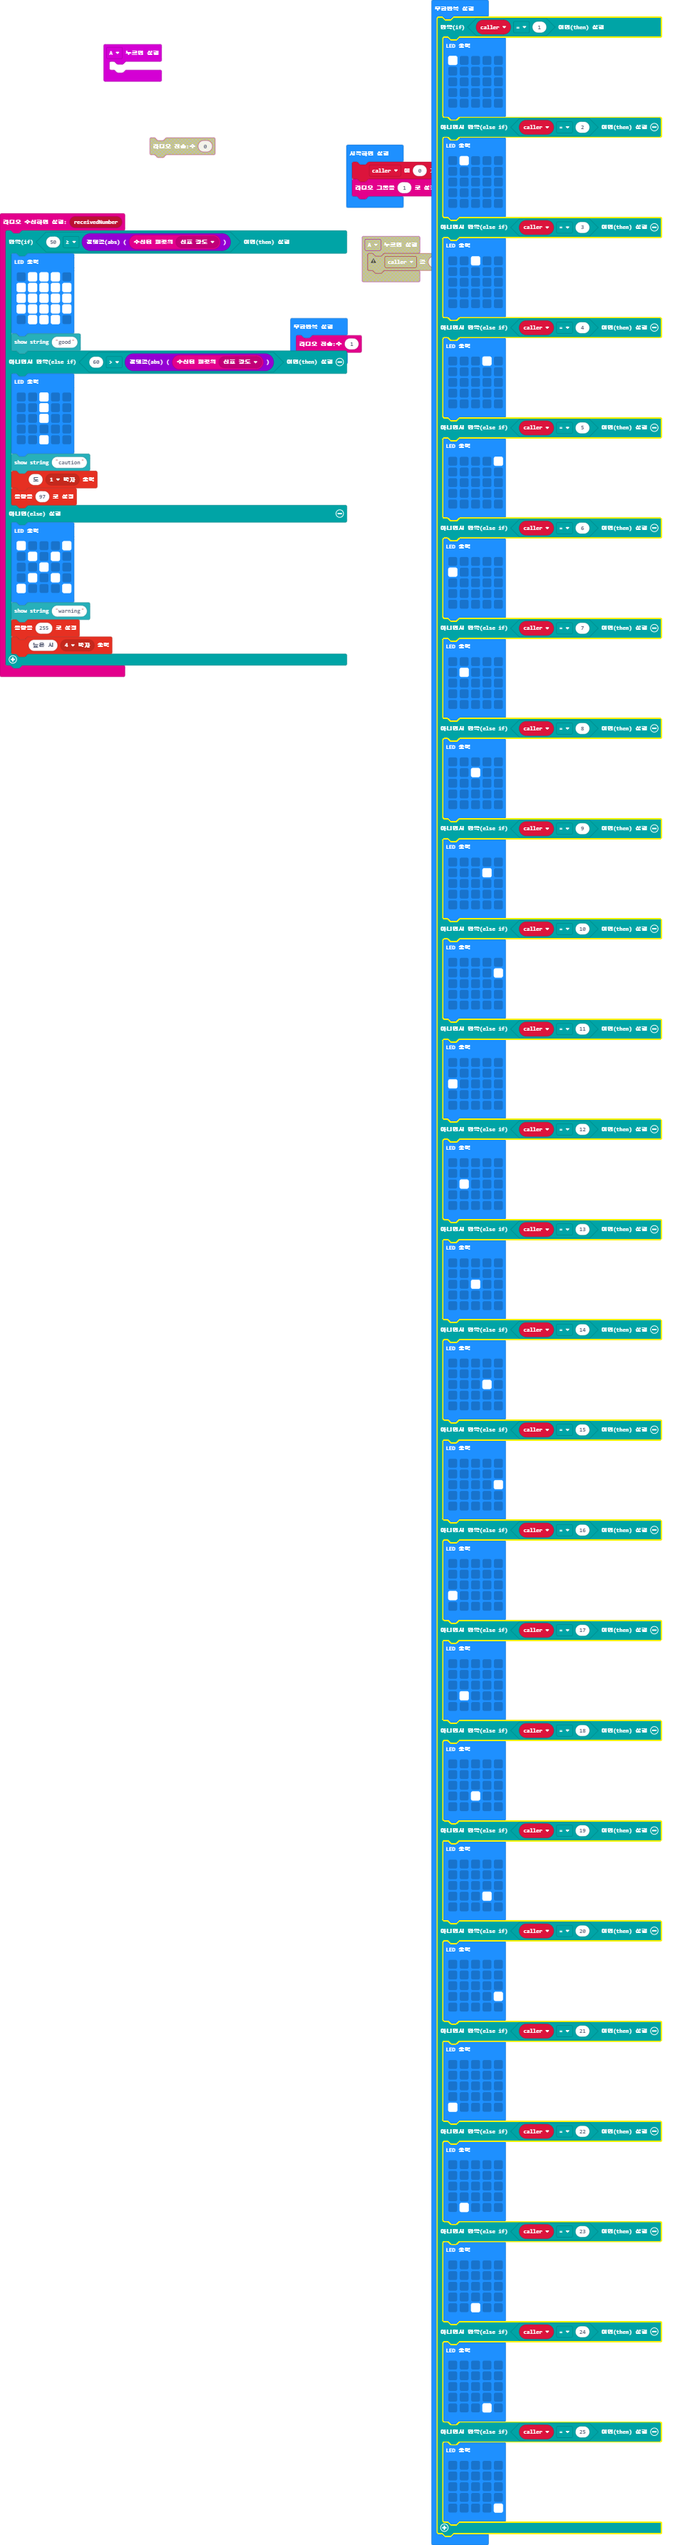
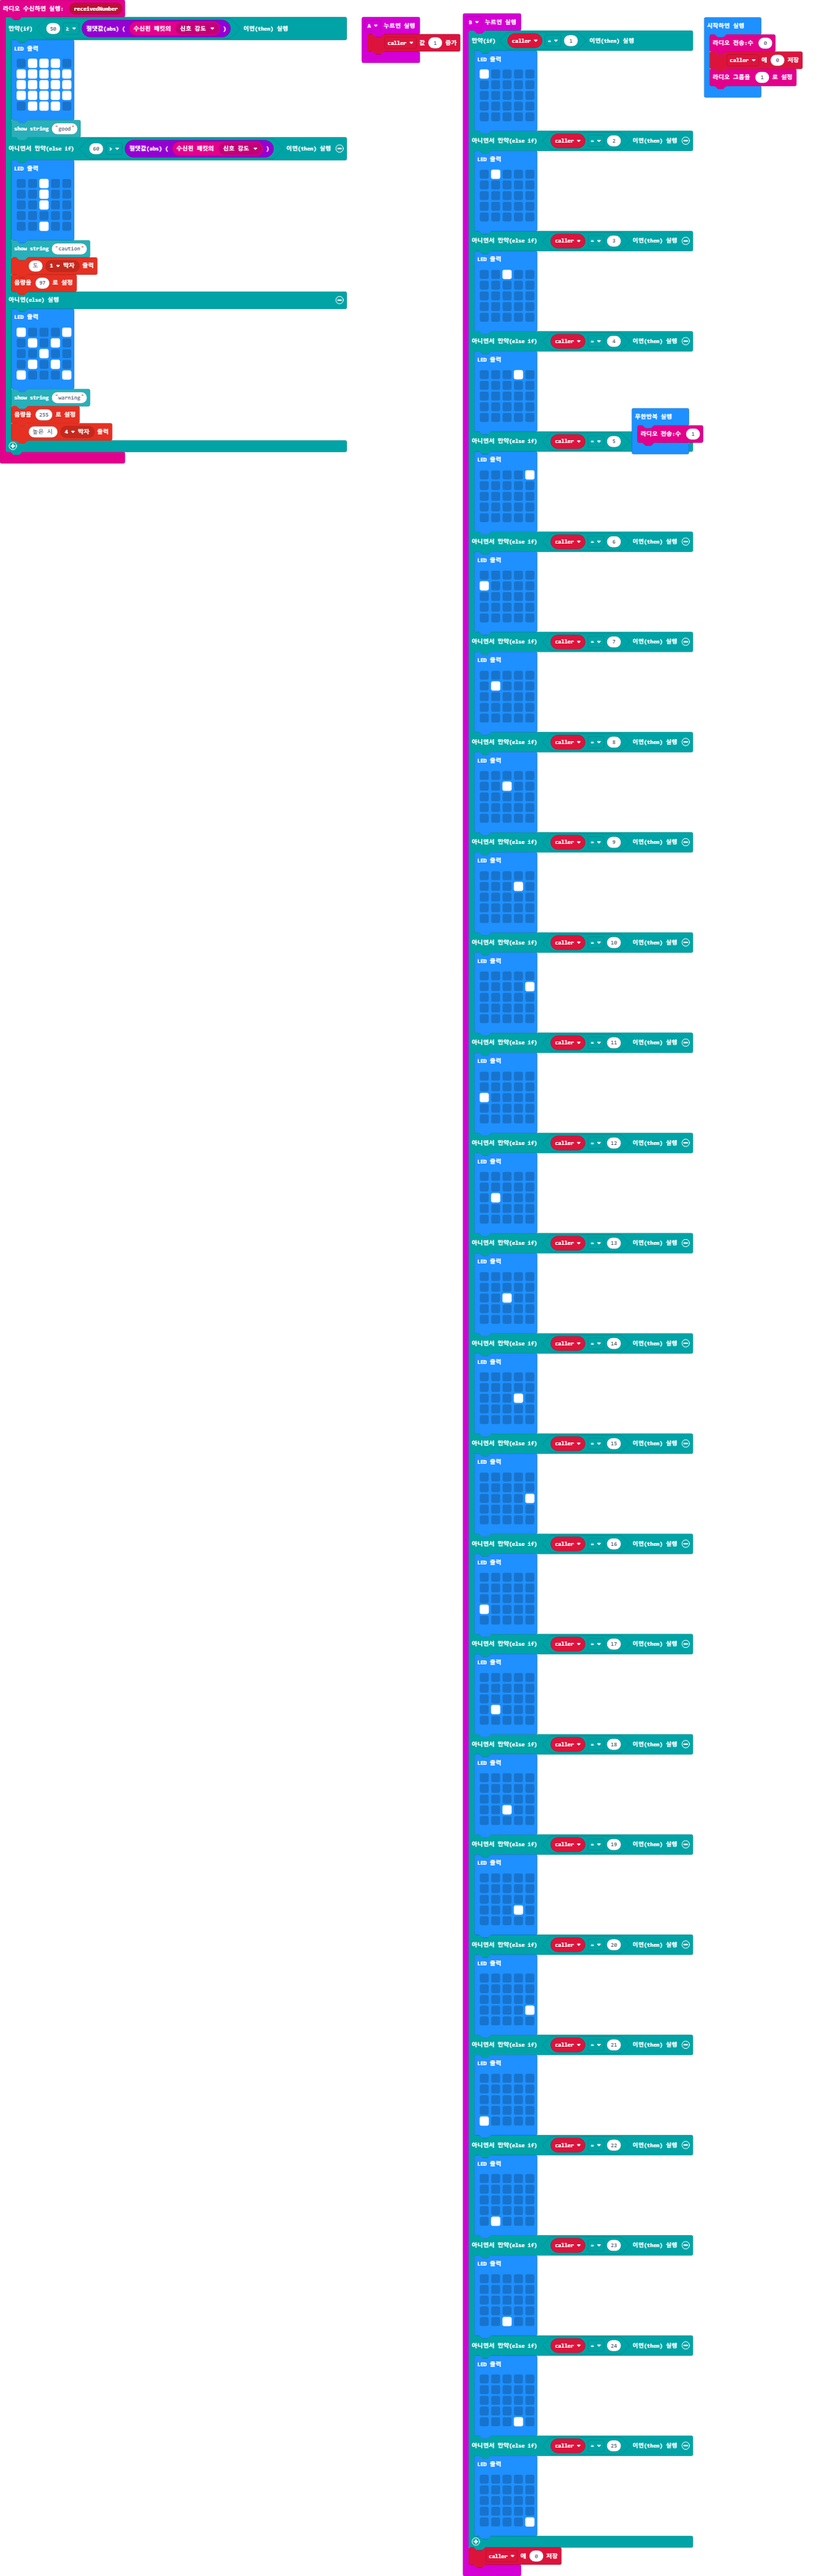
Update main.blocks, main.ts

Changed region(s): [[0.0, 0.0, 0.9727, 1.0]]

diff --git a/main.ts b/main.ts
@@ -33,11 +33,9 @@ radio.onReceivedNumber(function (receivedNumber) {
     }
 })
 input.onButtonPressed(Button.A, function () {
-	
+    caller += 1
 })
-let caller = 0
-radio.setGroup(1)
-basic.forever(function () {
+input.onButtonPressed(Button.B, function () {
     if (caller == 1) {
         basic.showLeds(`
             # . . . .
@@ -239,7 +237,12 @@ basic.forever(function () {
             . . . . #
             `)
     }
+    caller = 0
 })
+let caller = 0
+radio.sendNumber(0)
+caller = 0
+radio.setGroup(1)
 basic.forever(function () {
     radio.sendNumber(1)
 })
